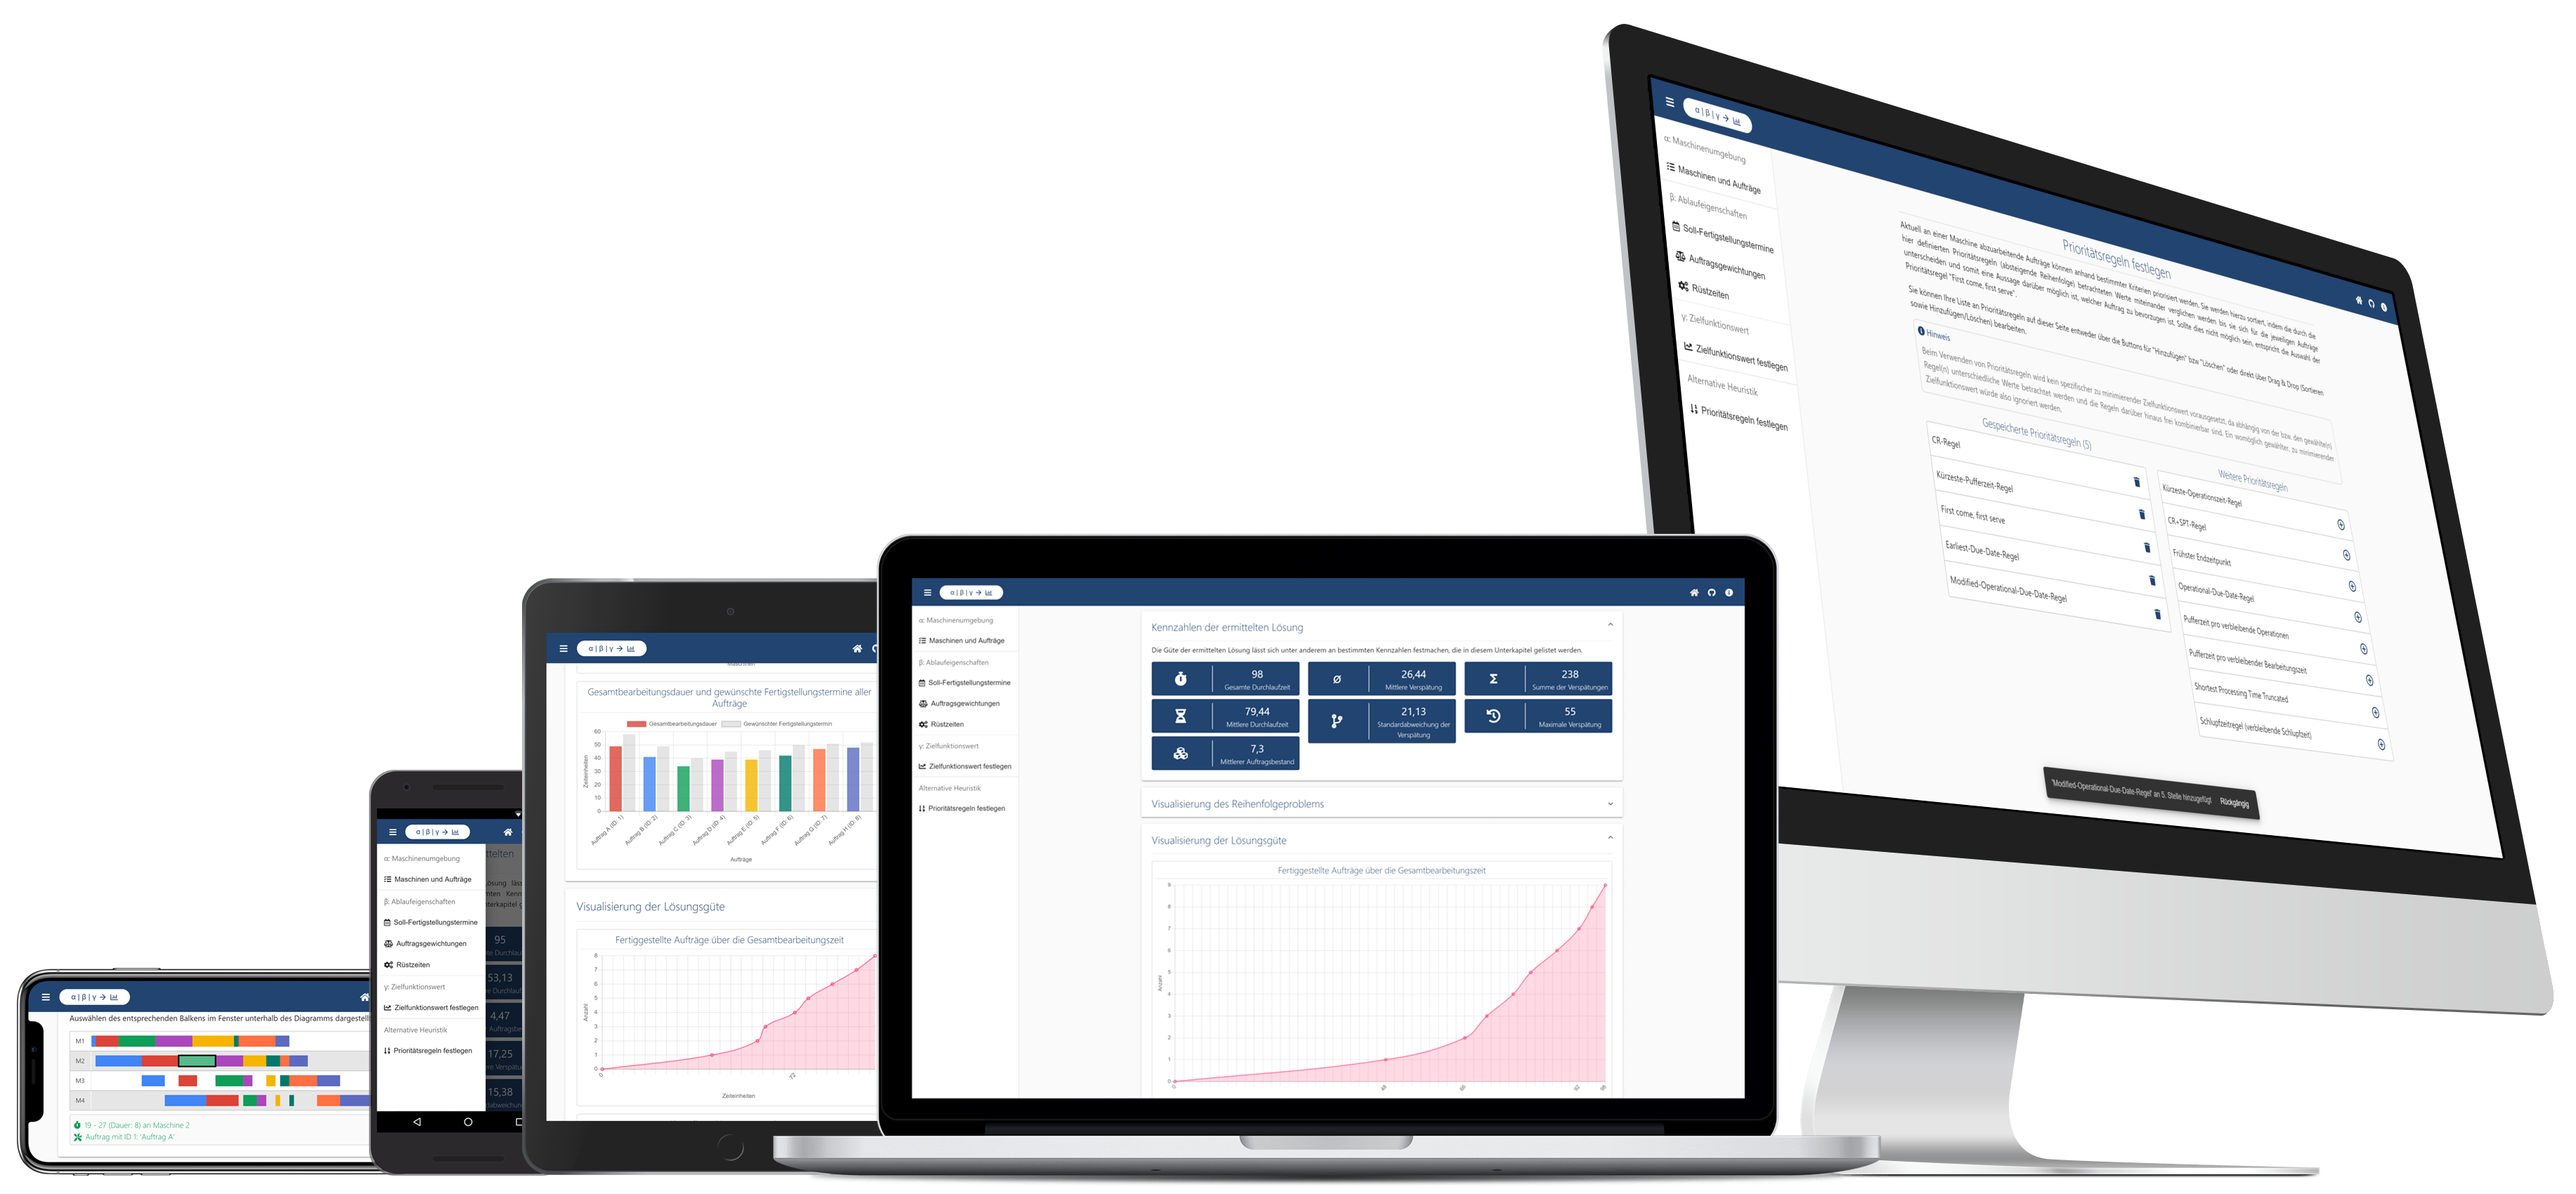
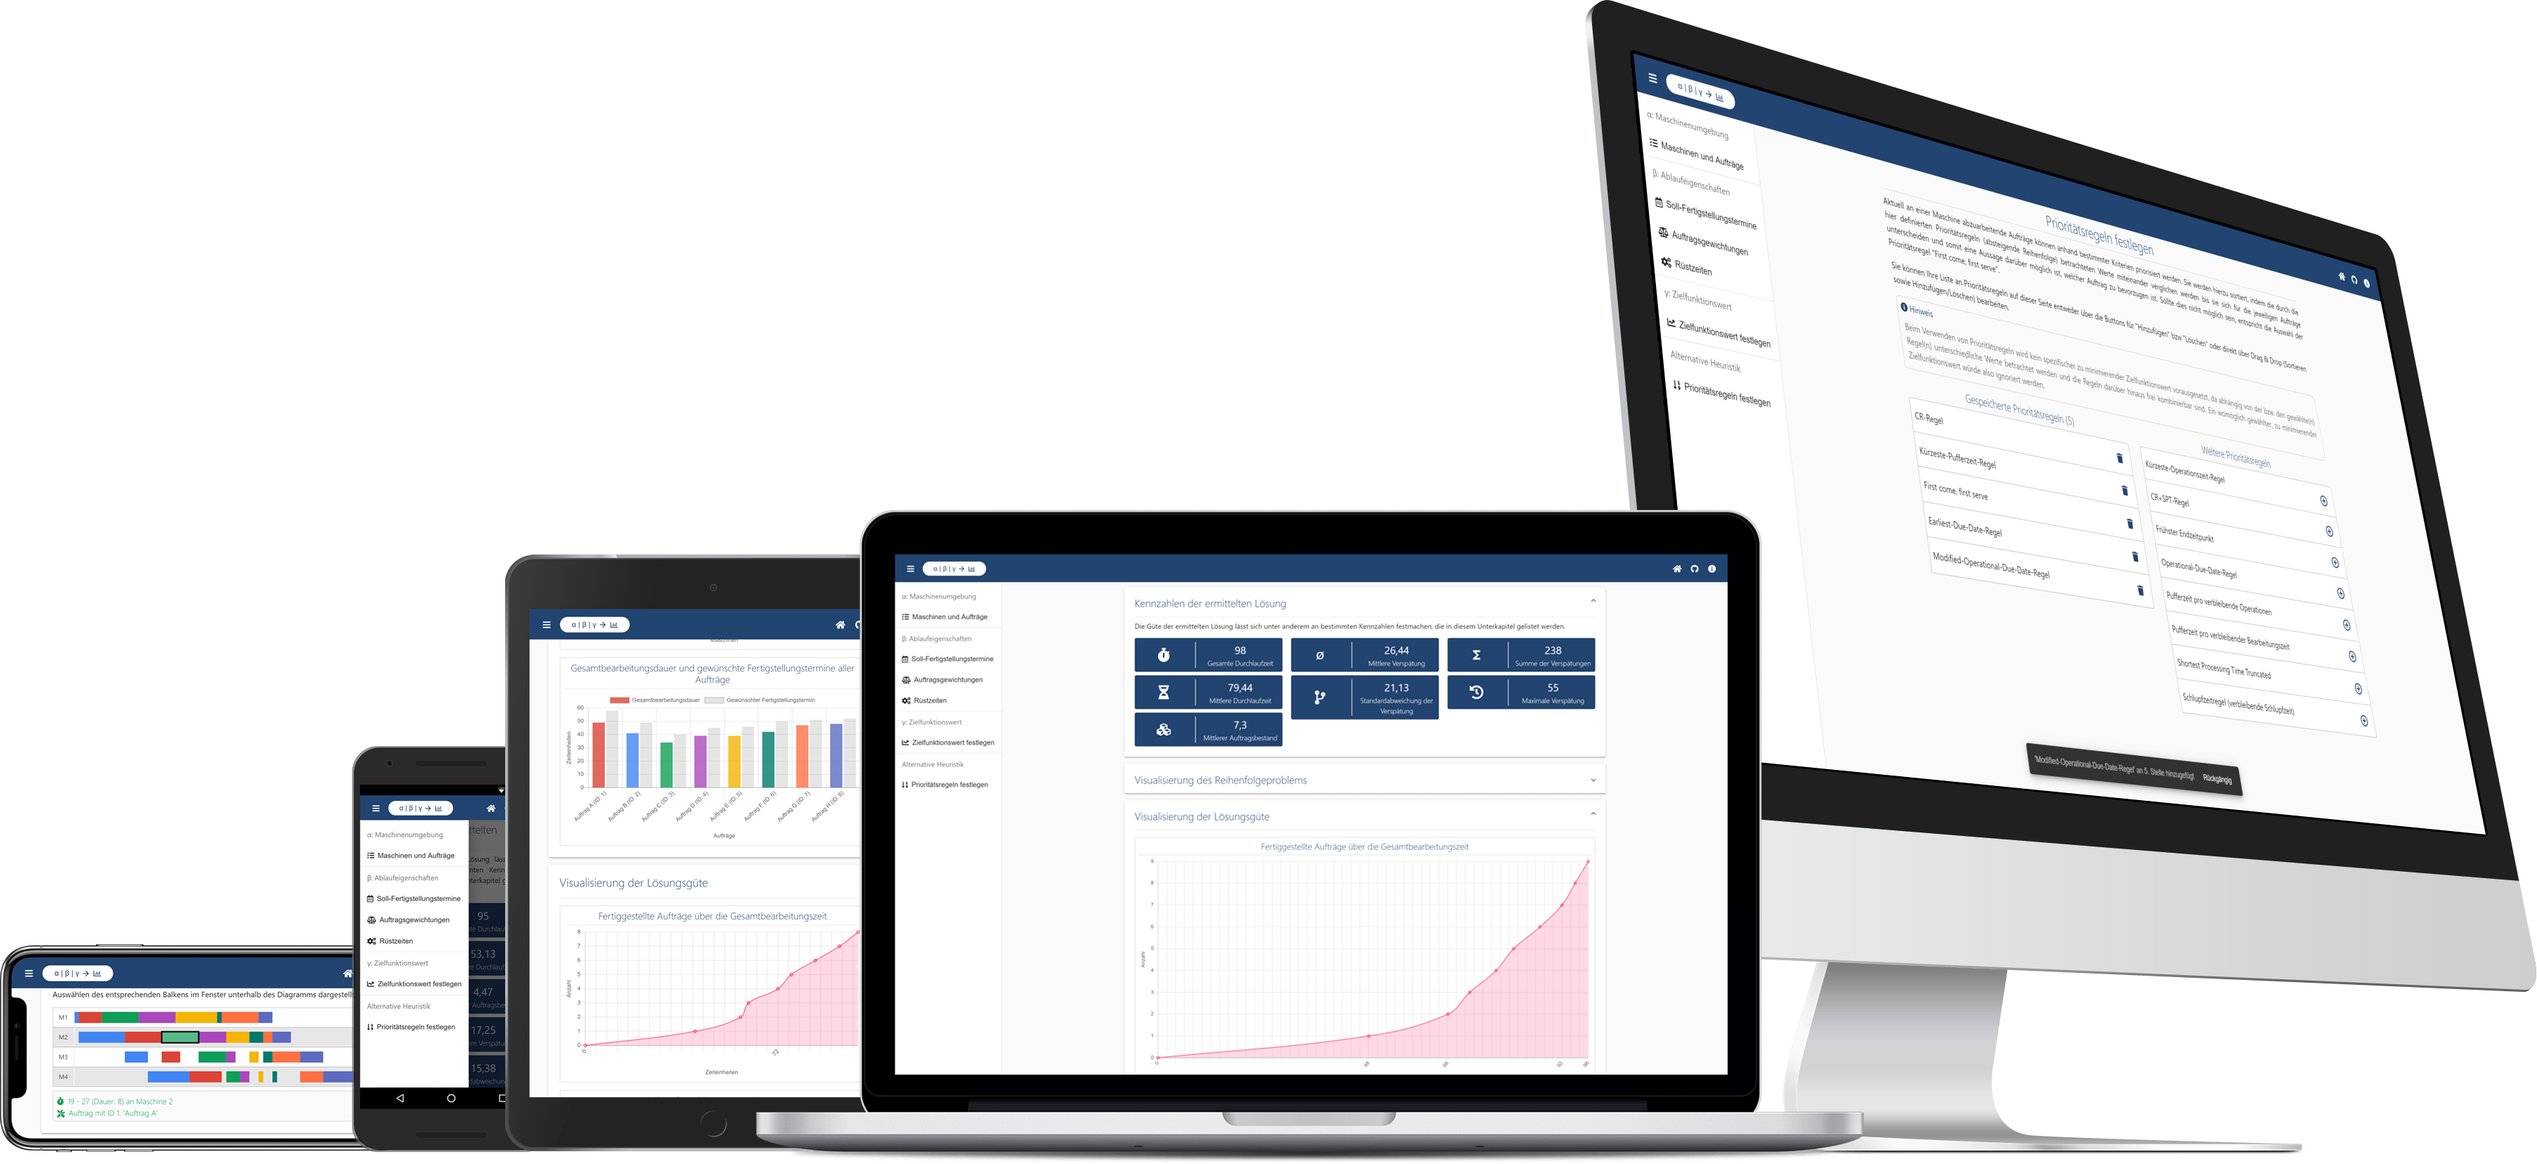
Content: Completely implemented welcome page.

diff --git a/src/app/components/pages/welcome/welcome.component.html b/src/app/components/pages/welcome/welcome.component.html
@@ -1,5 +1,3 @@
-<!-- TODO content: Add content -->
-
 <div class="row title">
   <div class="col-md-12 text-center">
     <h3>
@@ -9,42 +7,81 @@
   </div>
 </div>
 
-<div class="row">
-
-  <p class="col-md-12 text-justify">
-    Lorem ipsum dolor sit amet, consetetur sadipscing elitr, sed diam nonumy eirmod tempor invidunt ut labore et dolore
-    magna aliquyam erat, sed diam voluptua. At vero eos et accusam et justo duo dolores et ea rebum. Stet clita kasd
-    gubergren, no sea takimata sanctus est Lorem ipsum dolor sit amet. Lorem ipsum dolor sit amet, consetetur sadipscing
-    elitr, sed diam nonumy eirmod tempor invidunt ut labore et dolore magna aliquyam erat, sed diam voluptua. At vero
-    eos et accusam et justo duo dolores et ea rebum. Stet clita kasd gubergren,
+<div class="text-justify">
+  <p>
+    In der Reihenfolgeplanung werden in erster Linie heuristische anstelle exakter Verfahren verwendet, da letztere
+    meist mit unrealistischem rechnerischen bzw. zeitlichen Aufwand verbunden sind. Erhofft ist daher, dass in
+    vertretbarer Zeit gute, wenngleich nicht optimale, Lösungen gefunden werden.
+  </p>
+  <p>
+    Hierbei stellt sich die Frage, wie gut mithilfe von Heuristiken ermittelte Lösungen tatsächlich sind. Mit eben
+    dieser Problematik beschäftigt sich diese Anwendung, indem sie unterschiedliche Verfahren zur Lösung frei
+    konfigurierbarer Reihenfolgeprobleme anbietet und die Güte der ermittelten Lösung visualisiert.
   </p>
 </div>
 
-<div class="row center">
-  <div class="col-md-6">
+<!-- Steps -->
+<mat-card>
+  <mat-card-title>
     <div class="text-center title">
-      <h5>Heading 1</h5>
+      <h4>In wenigen Schritten zur Lösung und Visualisierung von Reihenfolgeproblemen</h4>
     </div>
-    <p>
-      Lorem ipsum dolor sit amet, consetetur sadipscing elitr, sed diam nonumy eirmod tempor invidunt ut labore et
-      dolore magna aliquyam erat, sed diam voluptua. At vero eos et accusam et justo duo dolores et ea rebum. Stet clita
-      kasd gubergren, no sea takimata sanctus est Lorem ipsum dolor sit amet. Lorem ipsum dolor sit amet, consetetur
-      sadipscing elitr, sed diam
+  </mat-card-title>
+  <mat-card-content>
+    <p class="text-justify">
+      Das Aufstellen eines zu lösenden Reihenfolgeproblems über das Navigationsmenü (links) aufrufbaren Seiten erfordert
+      nur wenige Schritte:
     </p>
-  </div>
-  <div class="col-md-6">
-    <div class="text-center title">
-      <h5>Heading 2</h5>
+    <div class="step">
+      <div class="step-symbol my-auto text-center centered"><i class="fas fa-tasks"></i></div>
+      <div class="my-auto">Konfigurieren von Auftragslage und Maschinenumgebung</div>
     </div>
-    <p>
-      Lorem ipsum dolor sit amet, consetetur sadipscing elitr, sed diam nonumy eirmod tempor invidunt ut labore et
-      dolore
-      magna aliquyam erat, sed diam voluptua. At vero eos et accusam et justo duo dolores et ea rebum. Stet clita kasd
-      gubergren, no sea takimata sanctus est Lorem ipsum dolor sit amet.
-    </p>
-  </div>
+    <div class="col-md-12 divider">
+      <mat-divider></mat-divider>
+    </div>
+    <div class="step">
+      <div class="step-symbol my-auto text-center centered"><i class="fas fa-calendar-alt"></i></div>
+      <div class="my-auto">Konfigurieren zusätzlicher Ablaufeigenschaften (nicht zwingend erforderlich)</div>
+    </div>
+    <div class="col-md-12 divider">
+      <mat-divider></mat-divider>
+    </div>
+    <div class="step">
+      <div class="step-symbol my-auto text-center centered"><i class="fas fa-chart-line"></i></div>
+      <div class="my-auto">Festlegen des zu minimierenden Zielfunktionswerts</div>
+    </div>
+    <div class="information font-italic">oder</div>
+    <div class="step">
+      <div class="step-symbol my-auto text-center centered"><i class="fas fa-sort-numeric-down"></i></div>
+      <div class="my-auto">Festlegen von Prioritätsregeln</div>
+    </div>
+    <div class="col-md-12 divider">
+      <mat-divider></mat-divider>
+    </div>
+    <div class="step">
+      <div class="step-symbol my-auto text-center centered"><i class="far fa-chart-bar"></i></div>
+      <div class="my-auto">
+        Fertig. Sie können nun über den Button in der Toolbar ein passendes heuristisches Verfahren wählen und ihr
+        Problem lösen bzw. die Lösung visualisieren lassen.
+      </div>
+    </div>
+  </mat-card-content>
+</mat-card>
 
-  <div class="col-md-12">
-    <img src="../../../../assets/VisLgHeur_devices.png">
-  </div>
-</div>
+<!-- Responsiveness -->
+<mat-card>
+  <img src="../../../../assets/VisLgHeur_devices.png" alt="VisLgHeur auf verschiedensten Endgeräten">
+  <mat-card-title>
+    <div class="text-center title">
+      <h4>Responsive und plattformübergreifend</h4>
+    </div>
+  </mat-card-title>
+  <mat-card-content>
+    <p class="text-justify">
+      Bei der Implementierung dieser Anwendung wurde darauf geachtet, dass sie auf unterschiedlichsten Endgeräten
+      verwendet
+      werden kann (Responsive Webdesign). Darüber hinaus ist sie als Webapplikation betriebssystem- sowie
+      browserübergreifend.
+    </p>
+  </mat-card-content>
+</mat-card>

diff --git a/src/app/components/pages/welcome/welcome.component.css b/src/app/components/pages/welcome/welcome.component.css
@@ -1,3 +1,40 @@
 img {
   width: 100%;
+  margin-bottom: 16px;
+}
+
+mat-card {
+  margin-top: 16px;
+}
+
+mat-card-title {
+  padding-bottom: 8px;
+}
+
+.divider {
+  padding-top: 8px;
+  padding-bottom: 8px;
+}
+
+.step {
+  display: flex;
+}
+
+.step-symbol {
+  color: white;
+  background-color: var(--color-main);
+  border-radius: 36px;
+  flex: 0 0 36px;
+  height: 36px;
+  margin-right: 8px;
+  font-size: large;
+}
+
+.step-symbol + div {
+  flex: 1;
+  color: var(--color-main);
+}
+
+.step + .information {
+  padding-left: 44px;
 }
